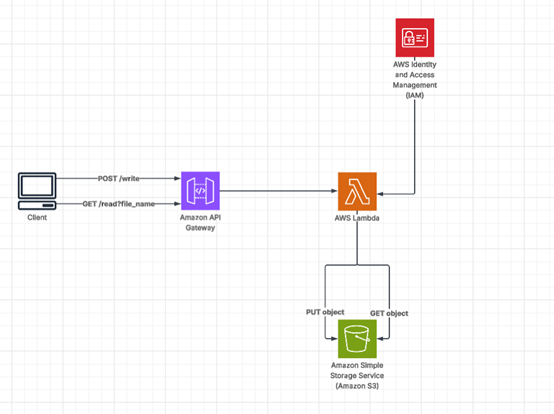
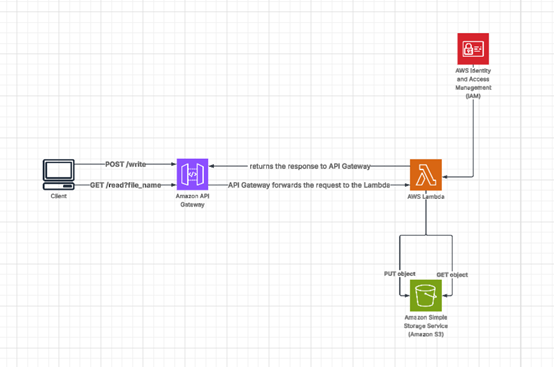
update architecture photo & README.md

Changed region(s): [[0.0307, 0.03, 0.8899, 0.9591]]

diff --git a/README.md b/README.md
@@ -14,7 +14,24 @@ This project provisions a serverless AWS infrastructure using Terraform. It incl
 
 ![System Architecture](architecture.png)
 
-The architecture diagram above illustrates the flow of data and permissions within the system. Client requests are sent to Amazon API Gateway, which triggers an AWS Lambda function. The Lambda function, running with a dedicated IAM role, processes these requests and interacts securely with an Amazon S3 bucket for data storage. The IAM policies and S3 bucket policy ensure that only the Lambda function has access to the S3 bucket, providing a secure and serverless solution for handling API requests and data management.
+- **Client**  
+  Sends HTTP requests:  
+  - `POST /write` – stores data  
+  - `GET /read?file_name=` – retrieves data
+
+- **Amazon API Gateway (v2)**  
+  Receives HTTP requests and forwards them to Lambda. Returns the response to the client.
+
+- **AWS Lambda**  
+  Executes the logic: receives the request, reads from or writes to S3, and returns a response to API Gateway.
+
+- **Amazon S3**  
+  Stores the files. Access is restricted only to the Lambda function's IAM role.
+
+- **IAM**  
+  Provides secure access. The bucket policy ensures that only the Lambda role can access S3.
+
+
 
 ---
 
